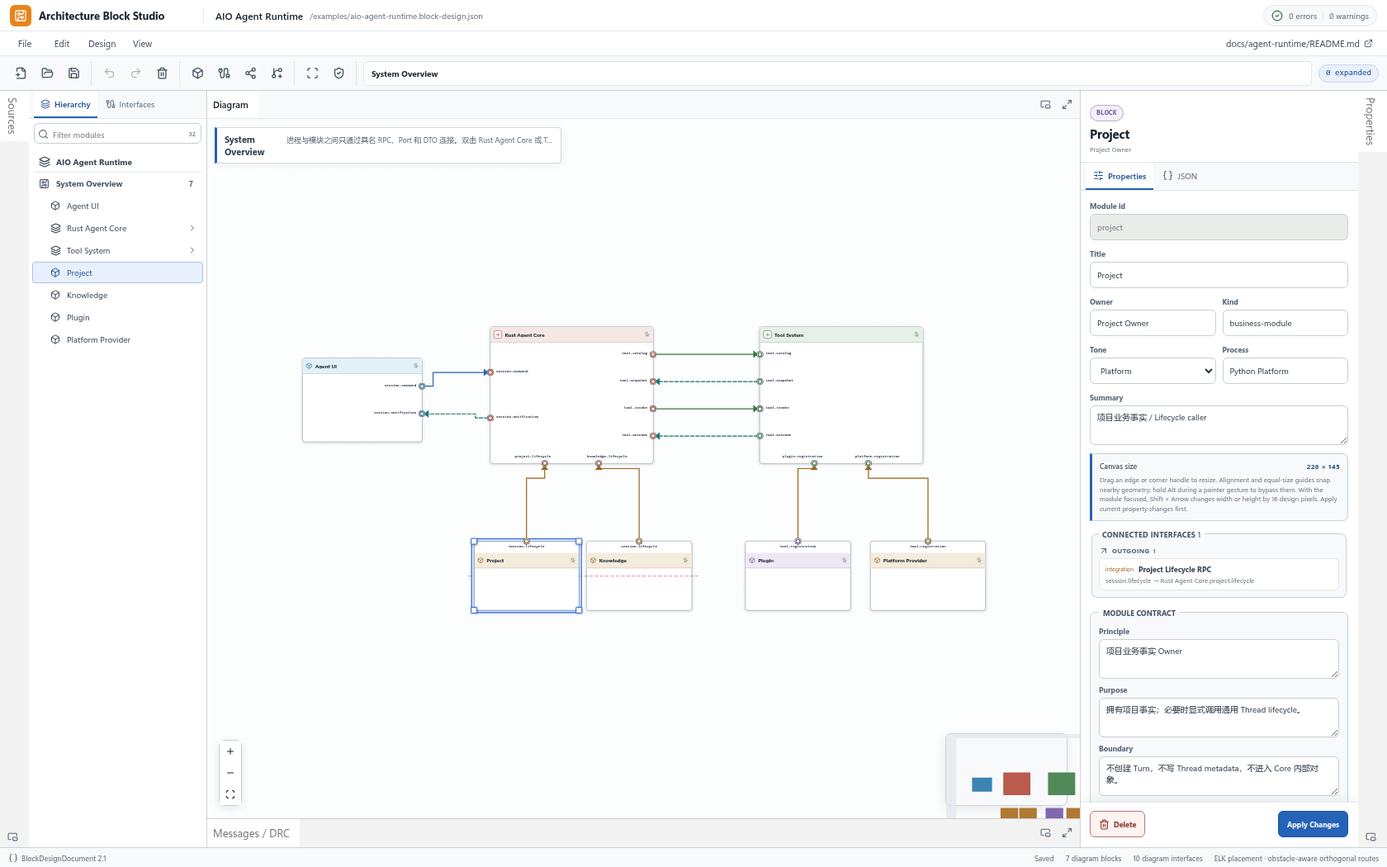
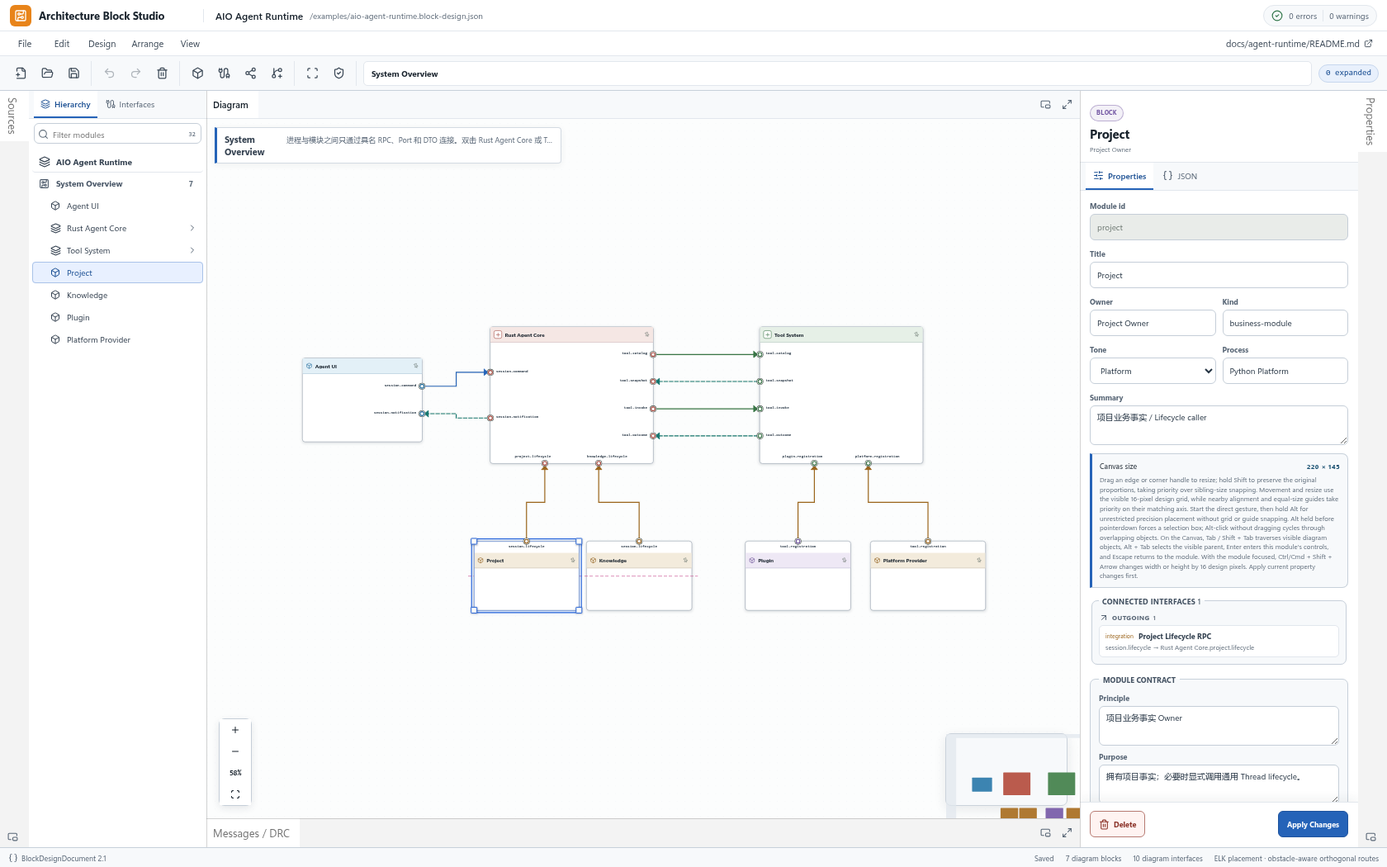
feat: unify grid and guide precision snapping

diff --git a/src/components/BlockDesignCanvas.tsx b/src/components/BlockDesignCanvas.tsx
@@ -46,6 +46,7 @@ import type {
 } from "../model";
 import {
   BLOCK_NODE_GEOMETRY,
+  DESIGN_GRID_SIZE,
   alignmentRectBounds,
   minimumNodeDimensions,
   snapMovingRect,
@@ -112,14 +113,13 @@ const nodeTypes = { block: BlockNodeComponent };
 const edgeTypes = { interface: InterfaceEdgeComponent };
 const FIT_PADDING = 0.28;
 const NO_SELECTED_IDS: readonly string[] = [];
-const SNAP_GRID: [number, number] = [16, 16];
 const MIN_ZOOM = 0.18;
 const MAX_ZOOM = 2.4;
 const NODE_KEYBOARD_DELTAS: Readonly<Record<string, { x: number; y: number; direction: string }>> = {
-  ArrowLeft: { x: -SNAP_GRID[0], y: 0, direction: "left" },
-  ArrowRight: { x: SNAP_GRID[0], y: 0, direction: "right" },
-  ArrowUp: { x: 0, y: -SNAP_GRID[1], direction: "up" },
-  ArrowDown: { x: 0, y: SNAP_GRID[1], direction: "down" },
+  ArrowLeft: { x: -DESIGN_GRID_SIZE.x, y: 0, direction: "left" },
+  ArrowRight: { x: DESIGN_GRID_SIZE.x, y: 0, direction: "right" },
+  ArrowUp: { x: 0, y: -DESIGN_GRID_SIZE.y, direction: "up" },
+  ArrowDown: { x: 0, y: DESIGN_GRID_SIZE.y, direction: "down" },
 };
 const CANVAS_OBJECT_CONTROL_SELECTOR = "button:not([disabled]), [tabindex='0']";
 const FIT_VIEW_OPTIONS = { padding: FIT_PADDING };
@@ -158,7 +158,7 @@ const toneColors: Record<string, string> = {
 };
 
 const CANVAS_BACKGROUND = (
-  <Background variant={BackgroundVariant.Dots} gap={16} size={1} color="var(--canvas-grid)" />
+  <Background variant={BackgroundVariant.Dots} gap={DESIGN_GRID_SIZE.x} size={1} color="var(--canvas-grid)" />
 );
 
 function CanvasViewportControls({
@@ -318,6 +318,7 @@ interface AlignmentGesture {
   originalLocalPosition: { x: number; y: number };
   candidates: AlignmentRect[];
   tolerance: number;
+  grid: { x: number; y: number; originX: number; originY: number };
   limits: ResizeLimits;
 }
 
@@ -656,6 +657,11 @@ const CanvasInner = memo(function CanvasInner({
       originalLocalPosition: { ...subject.position },
       candidates,
       tolerance: ALIGNMENT_TOLERANCE_PX / zoom,
+      grid: {
+        ...DESIGN_GRID_SIZE,
+        originX: subject.internals.positionAbsolute.x - subject.position.x,
+        originY: subject.internals.positionAbsolute.y - subject.position.y,
+      },
       limits: {
         minWidth: minimum.width,
         minHeight: minimum.height,
@@ -694,6 +700,7 @@ const CanvasInner = memo(function CanvasInner({
       gesture.candidates,
       gesture.tolerance,
       gesture.limits,
+      gesture.grid,
     );
     resizePreviewRef.current = {
       nodeId: node.id,
@@ -1740,14 +1747,14 @@ const CanvasInner = memo(function CanvasInner({
           minimum.width,
           Math.min(
             BLOCK_NODE_GEOMETRY.maximumWidth,
-            currentWidth + (event.key === "ArrowLeft" ? -SNAP_GRID[0] : event.key === "ArrowRight" ? SNAP_GRID[0] : 0),
+            currentWidth + (event.key === "ArrowLeft" ? -DESIGN_GRID_SIZE.x : event.key === "ArrowRight" ? DESIGN_GRID_SIZE.x : 0),
           ),
         ),
         height: Math.max(
           minimum.height,
           Math.min(
             BLOCK_NODE_GEOMETRY.maximumHeight,
-            currentHeight + (event.key === "ArrowUp" ? -SNAP_GRID[1] : event.key === "ArrowDown" ? SNAP_GRID[1] : 0),
+            currentHeight + (event.key === "ArrowUp" ? -DESIGN_GRID_SIZE.y : event.key === "ArrowDown" ? DESIGN_GRID_SIZE.y : 0),
           ),
         ),
       };
@@ -1929,7 +1936,7 @@ const CanvasInner = memo(function CanvasInner({
       x: gesture.original.x + node.position.x - gesture.originalLocalPosition.x,
       y: gesture.original.y + node.position.y - gesture.originalLocalPosition.y,
     };
-    const snapped = snapMovingRect(preview, gesture.candidates, gesture.tolerance);
+    const snapped = snapMovingRect(preview, gesture.candidates, gesture.tolerance, gesture.grid);
     setAlignmentGuides(snapped.guides);
     return {
       position: {
@@ -2135,8 +2142,6 @@ const CanvasInner = memo(function CanvasInner({
           connectionLineComponent={ConnectionGesturePreview}
           nodesConnectable
           edgesReconnectable
-          snapToGrid
-          snapGrid={SNAP_GRID}
           minZoom={MIN_ZOOM}
           maxZoom={MAX_ZOOM}
           autoPanOnConnect

diff --git a/src/layout/alignmentGuides.ts b/src/layout/alignmentGuides.ts
@@ -34,6 +34,15 @@ export interface AlignmentSnapResult {
   guides: AlignmentGuide[];
 }
 
+export interface AlignmentGrid {
+  x: number;
+  y: number;
+  originX?: number;
+  originY?: number;
+}
+
+export const DESIGN_GRID_SIZE = { x: 16, y: 16 } as const;
+
 export interface ResizeLimits {
   minWidth: number;
   minHeight: number;
@@ -136,13 +145,18 @@ export function snapMovingRect(
   subject: AlignmentRect,
   candidates: readonly AlignmentRect[],
   tolerance: number,
+  grid?: AlignmentGrid,
 ): AlignmentSnapResult {
   const xMatch = closestAxisMatch(subject, candidates, "x", tolerance);
   const yMatch = closestAxisMatch(subject, candidates, "y", tolerance);
   const rect = {
     ...subject,
-    x: subject.x + (xMatch?.delta ?? 0),
-    y: subject.y + (yMatch?.delta ?? 0),
+    x: xMatch
+      ? subject.x + xMatch.delta
+      : snapGridCoordinate(subject.x, grid?.x, grid?.originX),
+    y: yMatch
+      ? subject.y + yMatch.delta
+      : snapGridCoordinate(subject.y, grid?.y, grid?.originY),
   };
   return {
     rect,
@@ -151,6 +165,11 @@ export function snapMovingRect(
       ...(yMatch ? [lineGuide(rect, "y", yMatch)] : []),
     ],
   };
+}
+
+function snapGridCoordinate(value: number, step?: number, origin = 0): number {
+  if (!step || step <= 0) return value;
+  return origin + Math.round((value - origin) / step) * step;
 }
 
 function changed(left: number, right: number): boolean {
@@ -216,6 +235,7 @@ export function snapResizingRect(
   candidates: readonly AlignmentRect[],
   tolerance: number,
   limits: ResizeLimits,
+  grid?: AlignmentGrid,
 ): AlignmentSnapResult {
   const originalRight = original.x + original.width;
   const originalBottom = original.y + original.height;
@@ -279,6 +299,35 @@ export function snapResizingRect(
         rect = beforeSizeSnap;
       }
     }
+  }
+
+  const hasXSnap = guides.some((guide) =>
+    guide.kind === "line" ? guide.axis === "x" : guide.axis === "width");
+  const hasYSnap = guides.some((guide) =>
+    guide.kind === "line" ? guide.axis === "y" : guide.axis === "height");
+  if (!hasXSnap && grid?.x && (leftChanged || rightChanged)) {
+    const beforeGridSnap = rect;
+    const right = rect.x + rect.width;
+    if (leftChanged && !rightChanged) {
+      const x = snapGridCoordinate(rect.x, grid.x, grid.originX);
+      rect = { ...rect, x, width: right - x };
+    } else {
+      const snappedRight = snapGridCoordinate(right, grid.x, grid.originX);
+      rect = { ...rect, width: snappedRight - rect.x };
+    }
+    if (!withinLimits(rect, limits)) rect = beforeGridSnap;
+  }
+  if (!hasYSnap && grid?.y && (topChanged || bottomChanged)) {
+    const beforeGridSnap = rect;
+    const bottom = rect.y + rect.height;
+    if (topChanged && !bottomChanged) {
+      const y = snapGridCoordinate(rect.y, grid.y, grid.originY);
+      rect = { ...rect, y, height: bottom - y };
+    } else {
+      const snappedBottom = snapGridCoordinate(bottom, grid.y, grid.originY);
+      rect = { ...rect, height: snappedBottom - rect.y };
+    }
+    if (!withinLimits(rect, limits)) rect = beforeGridSnap;
   }
   return { rect, guides };
 }

diff --git a/tests/studio.spec.ts b/tests/studio.spec.ts
@@ -4109,6 +4109,7 @@ test("aligns a pointer-moved module and lets Alt bypass guides for one gesture",
     (candidate: { id: string }) => candidate.id === "project",
   );
   expect(savedNode.layout.position.x).toBeGreaterThan(370);
+  expect(savedNode.layout.position.x % 16).toBe(0);
   expect(savedNode.layout.position.y).toBe(650);
 
   await page.keyboard.press("ControlOrMeta+Z");
@@ -4126,7 +4127,9 @@ test("aligns a pointer-moved module and lets Alt bypass guides for one gesture",
   savedNode = saved.levels.find((level: { id: string }) => level.id === "system").nodes.find(
     (candidate: { id: string }) => candidate.id === "project",
   );
-  expect(savedNode.layout.position.y).not.toBe(650);
+  expect(savedNode.layout.position.y).toBe(650);
+  expect(savedNode.layout.position.x).toBeGreaterThan(370);
+  expect(savedNode.layout.position.x % 16).not.toBe(0);
 });
 
 test("snaps a selected group by its full boundary regardless of the grabbed member", async ({ page, browserName }) => {
@@ -5763,7 +5766,16 @@ test("matches a sibling size while resizing and lets Alt bypass size snapping", 
   await page.mouse.up();
   await page.keyboard.up("Alt");
   await waitForEditorIdle(page);
-  await expect(page.getByRole("region", { name: "Module geometry" }).locator("strong")).toHaveText("256 × 145");
+  await expect(page.getByRole("region", { name: "Module geometry" }).locator("strong")).toHaveText("253 × 145");
+
+  const precisionDownloadPromise = page.waitForEvent("download");
+  await page.keyboard.press("ControlOrMeta+S");
+  const precisionSavedPath = await (await precisionDownloadPromise).path();
+  const precisionSaved = JSON.parse(await readFile(precisionSavedPath!, "utf8"));
+  const precisionSavedNode = precisionSaved.levels
+    .find((level: { id: string }) => level.id === "system").nodes
+    .find((candidate: { id: string }) => candidate.id === "platform-provider");
+  expect(precisionSavedNode.layout).toMatchObject({ width: 253, height: 145 });
 });
 
 test("resizes a focused module only with the draw.io keyboard chord", async ({ page }) => {

diff --git a/src/components/Inspector.tsx b/src/components/Inspector.tsx
@@ -412,7 +412,7 @@ function NodeEditor({ document, level, node, onOperation, onDelete, onDraftChang
             ? `${node.layout.width} × ${node.layout.height}`
             : "Automatic"}</strong>
         </div>
-        <p>Drag an edge or corner handle to resize; hold Shift to preserve the original proportions, taking priority over sibling-size snapping. Alignment and equal-size guides snap nearby geometry; start the direct gesture, then hold Alt to bypass them. Alt held before pointerdown forces a selection box; Alt-click without dragging cycles through overlapping objects. On the Canvas, Tab / Shift + Tab traverses visible diagram objects, Alt + Tab selects the visible parent, Enter enters this module's controls, and Escape returns to the module. With the module focused, Ctrl/Cmd + Shift + Arrow changes width or height by 16 design pixels. Apply current property changes first.</p>
+        <p>Drag an edge or corner handle to resize; hold Shift to preserve the original proportions, taking priority over sibling-size snapping. Movement and resize use the visible 16-pixel design grid, while nearby alignment and equal-size guides take priority on their matching axis. Start the direct gesture, then hold Alt for unrestricted precision placement without grid or guide snapping. Alt held before pointerdown forces a selection box; Alt-click without dragging cycles through overlapping objects. On the Canvas, Tab / Shift + Tab traverses visible diagram objects, Alt + Tab selects the visible parent, Enter enters this module's controls, and Escape returns to the module. With the module focused, Ctrl/Cmd + Shift + Arrow changes width or height by 16 design pixels. Apply current property changes first.</p>
       </section>
       <ConnectedInterfaces document={document} level={level} node={node} onSelect={onSelect} />
       <ContractFields value={inspector} onChange={setInspector} />

diff --git a/tests/unit/alignmentGuides.test.ts b/tests/unit/alignmentGuides.test.ts
@@ -74,6 +74,20 @@ describe("alignment guides", () => {
     ]);
   });
 
+  test("uses alignment before the parent-relative grid on each movement axis", () => {
+    const result = snapMovingRect(
+      rect("subject", 191, 107),
+      [rect("target", 294, 300)],
+      5,
+      { x: 16, y: 16, originX: 6, originY: 10 },
+    );
+
+    expect(result.rect).toMatchObject({ x: 194, y: 106 });
+    expect(result.guides).toEqual([
+      expect.objectContaining({ kind: "line", axis: "x", coordinate: 294 }),
+    ]);
+  });
+
   test("leaves moving geometry unchanged outside the screen-derived tolerance", () => {
     const subject = rect("subject", 90, 40);
     expect(snapMovingRect(subject, [rect("target", 200, 200)], 5)).toEqual({
@@ -116,6 +130,20 @@ describe("alignment guides", () => {
     expect(result.guides).toEqual([
       expect.objectContaining({ kind: "size", axis: "width", targetId: "target" }),
     ]);
+  });
+
+  test("snaps unmatched active resize edges to the parent-relative grid", () => {
+    const result = snapResizingRect(
+      rect("subject", 6, 10, 100, 80),
+      rect("subject", 6, 10, 109, 87),
+      [],
+      4,
+      limits,
+      { x: 16, y: 16, originX: 6, originY: 10 },
+    );
+
+    expect(result.rect).toEqual(rect("subject", 6, 10, 112, 80));
+    expect(result.guides).toEqual([]);
   });
 
   test("keeps resize results inside the content and workspace limits", () => {

diff --git a/docs/ARCHITECTURE.md b/docs/ARCHITECTURE.md
@@ -35,7 +35,7 @@ Menu / Toolbar / Keyboard / Canvas / Inspector
 | `src/model` | 拥有文档结构、Schema 版本与迁移、语义设计规则和无状态图查询 | `BlockDesignDocument`、`BLOCK_DESIGN_SCHEMA_VERSION`、`blockDesignSchemaCompatibility`、`parseBlockDesignDocument`、`validateBlockDesignDocument`、`listModuleInterfaces`、`normalizeConnectionEndpoints` | 不负责 UI、历史或布局；版本与结构非法时在字段路径拒绝，语义问题输出 DRC，查询与连接规范化不持有状态 |
 | `src/editor` | 拥有原子文档变换、历史、dirty 判断与可移植设计片段的引用完整性 | `DesignOperation`、`DesignFragment`、`createDesignFragment`、`parseDesignFragment`、`applyDesignOperation`、`useDesignEditor`、具名工厂 | 不渲染、不路由、不持久化；片段必须自包含，失败不产生部分修改 |
 | `src/io` | 拥有外部 JSON 与已校验文档之间的转换 | `loadDesignFromObject/File/Url`、`serializeDesign`、`downloadDesign` | 不解释模块业务；加载失败保留已安装文档 |
-| `src/layout` | 从文档与展开状态派生纯复合节点、边和位置投影，定义布局真正消费的签名，并提供不持有交互状态的吸附与多选编排几何 | `layoutBlockDesign`、`layoutFrameSignature`、`layoutProjectionSignature`、`snapMovingRect`、`snapResizingRect`、`alignSelection`、`distributeSelection`、`LayoutResult`、`PlacementMode` | 不依赖 Studio 或 React 交互回调，不修改源文档；没有合法吸附候选时原样返回预览几何，非法编排输入或布局失败上抛给 Studio |
+| `src/layout` | 从文档与展开状态派生纯复合节点、边和位置投影，定义布局真正消费的签名，并提供不持有交互状态的网格、辅助线与多选编排几何 | `layoutBlockDesign`、`layoutFrameSignature`、`layoutProjectionSignature`、`DESIGN_GRID_SIZE`、`snapMovingRect`、`snapResizingRect`、`alignSelection`、`distributeSelection`、`LayoutResult`、`PlacementMode` | 不依赖 Studio 或 React 交互回调，不修改源文档；没有合法辅助线时只应用显式网格策略，没有网格时原样返回预览几何，非法编排输入或布局失败上抛给 Studio |
 | `src/routing` | 从绝对布局几何和锁定 waypoint 构造 `RoutingScene`，统一拥有版本化正交多连接策略、规模资源预算、确定性求解、证明等级与独立验证；同一布局投影还向 pointer preview 提供只读障碍、规范端口和层级域，另提供手工路线编辑几何与线桥 | `createRoutingLayoutProjectionFromLayout`、`createRoutingSceneFromLayout`、`solveConnectionPreview`、`routingPolicyForScene`、`solveRoutingScene`、`verifyRoutingResult`、`planRouteJumps`、`RoutingScene`、`RoutingPolicy`、`RoutingResult` | 设计坐标是路由事实；不移动模块、不改文档、不持有 gesture；preview 只解一条可丢弃 leg，不参与多线 lane 协调；规模只收紧同一策略的有界资源，不改变几何与失败语义。失败返回明确无解，不调用第二套自动 fallback。完整合同见 [`ROUTING.md`](ROUTING.md) |
 | `src/components` | 将纯布局投影组合为可交互 Canvas，拥有选中几何的 viewport framing、具名缩放请求投影与直接手势的持续边缘平移，并展示用户视图、发出用户意图 | `CanvasBlockNodeData`、`CanvasInterfaceEdgeData`、`CanvasViewportActionRequest`、`ViewportAutoPanController`、`canvasGeometryBounds`、Canvas、Node、Edge、Tree、Inspector、Dialogs、Dock、Messages | 交互回调只存在于 Canvas 投影；viewport 只消费节点矩形、线路点集、指针压力和可丢弃动作请求，不直接深改文档，自动平移不得提交设计操作，局部表单草稿不得伪装成已提交事实 |
 | `src/studio` | 组合公开能力，拥有工作区选择协议、临时设计剪贴板与无碰撞粘贴位置投影 | `BlockDesignStudio`、`BlockDesignStudioProps`、`SelectionRef`、`selectAllInLevel`、`findDesignFragmentPlacement` 及纯选择查询 | 不重新定义 Schema、片段引用、布局或编辑规则；系统剪贴板失败时同源退化，组合失败应可见、可恢复 |
@@ -60,9 +60,16 @@ Menu / Toolbar / Keyboard / Canvas / Inspector
 
 端口连接点几何与标签排版同样正交。`layout/nodeGeometry` 是节点安全尺寸、标签估算宽度和水平 label rail 位置的唯一计算 Owner；`BlockNode` 从同一组已排序 Port 分别投影稳定 Handle 和独立标签按钮，不能为了排文字移动 source / target。left / right 标签沿各自侧边，top / bottom 标签在 Header / Owner 之外的内部轨道分配空间；常态只显示端口名，dataType 只在可读缩放下通过 hover / focus 渐进显示，完整事实仍可由 Properties 查看。已有 authored width / height 满足标签合同时必须原样保留；只有外部 JSON 或后续 resize 小于内容安全下限时，布局投影才钳制到可读尺寸，不能把展示修正反写 JSON。
 
-模块尺寸编辑复用同一几何 Owner。`minimumNodeDimensions` 从四侧端口和内容区计算可读下限，Canvas 只把这个纯结果投影为四边 / 四角 resize 限制；最大值与 16 设计像素键盘步长同样来自统一几何常量。Shift pointer resize 由纯 `preserveNodeAspectRatio` 以 gesture 起始矩形、抓手方向和同一尺寸上下限求解，固定对侧角或对侧边中心；比例不进入文档，并优先于兄弟尺寸吸附。React Flow 只拥有可丢弃预览，松手后只发出一次位置加尺寸意图；Editor 的 `node/resize` 才以一个原子操作写入 `node.layout.position / width / height / pinned`。左边或上边缩放会同时改变锚点和尺寸，因此不能只写 width / height，否则视觉边界与持久几何会漂移。展开的 hierarchy 容器尺寸由子图边界派生，不提供 authored resize 把手。
+模块尺寸编辑复用同一几何 Owner。`minimumNodeDimensions` 从四侧端口和内容区计算可读下限，Canvas 只把这个纯结果投影为四边 / 四角 resize 限制；最大值来自节点几何合同，pointer 网格、键盘移动 / resize 步长和背景点阵共同消费 `DESIGN_GRID_SIZE`。Shift pointer resize 由纯 `preserveNodeAspectRatio` 以 gesture 起始矩形、抓手方向和同一尺寸上下限求解，固定对侧角或对侧边中心；比例不进入文档，并优先于兄弟尺寸吸附。React Flow 只拥有可丢弃预览，松手后只发出一次位置加尺寸意图；Editor 的 `node/resize` 才以一个原子操作写入 `node.layout.position / width / height / pinned`。左边或上边缩放会同时改变锚点和尺寸，因此不能只写 width / height，否则视觉边界与持久几何会漂移。展开的 hierarchy 容器尺寸由子图边界派生，不提供 authored resize 把手。
 
-对齐辅助线沿用同一几何链，但不拥有设计事实。Canvas 在 move / resize 开始时只收集同一父级、当前视口附近的模块矩形，并把 6 CSS px 容差换算为设计坐标；多选移动先由 `alignmentRectBounds` 从全部成员的 absolute rect 冻结一个组包围框，pointer 位移只平移这个 subject，`snapMovingRect` 返回的同一 correction 再等量作用到每个成员。因此吸附结果不依赖用户抓住大卡片还是小卡片，组内相对位置也不会漂移。跨父级混选没有共同候选坐标空间时明确不吸附，不用当前抓取项猜一个目标。`layout/alignmentGuides` 纯函数从 subject 与候选派生边缘、中心及同宽 / 同高结果，`AlignmentGuideLayer` 只渲染当前 gesture 的临时线和尺寸括号。松手后仍只提交既有 `node/move`、`nodes/move`、`fragment/insert` 或 `node/resize`；先以 pointerdown 建立直接 move / resize，再按住 Alt 时，当前 gesture 原样使用用户预览且不显示 guide。Alt 在 pointerdown 前成立则属于选择协议并强制起框。候选不存在、吸附超出尺寸上下限或 Editor 拒绝提交时，不建立补偿状态，Canvas 回到文档投影。
+网格与对齐辅助线沿用同一几何链，但都不拥有设计事实。Canvas 在 move / resize 开始时冻结父级坐标原点，并只收集同一父级、当前视口附近的模块矩形，把 6 CSS px 容差换算为设计坐标；多选移动先由 `alignmentRectBounds` 从全部成员的 absolute rect 冻结一个组包围框，pointer 位移只平移这个 subject。`layout/alignmentGuides` 在每个轴上先选择最近的边缘 / 中心或同宽 / 同高候选，未命中的轴才按父级相对 `DESIGN_GRID_SIZE` 取整；同一 correction 再等量作用到每个成员，因此吸附结果不依赖抓住大卡片还是小卡片，组内相对位置也不会漂移。React Flow 的全局 `snapToGrid` 已关闭，不能在纯策略之前偷偷生成第二份几何。`AlignmentGuideLayer` 只渲染当前 gesture 的临时线和尺寸括号。松手后仍只提交既有 `node/move`、`nodes/move`、`fragment/insert` 或 `node/resize`；先以 pointerdown 建立直接 move / resize，再按住 Alt 时，同时跳过网格和辅助线，原样使用用户预览。Alt 在 pointerdown 前成立则属于选择协议并强制起框。跨父级混选、吸附超出尺寸上下限或 Editor 拒绝提交时，不猜坐标、不建立补偿状态，Canvas 回到文档投影。
+
+```text
+pointer raw geometry ─► layout snap policy ─► disposable Canvas preview ─► one DesignOperation
+                              │                          │                         │
+                  grid + nearby modules          guides / transform       BlockDesignDocument
+                  (Alt bypasses both)                 (not facts)          (only geometry fact)
+```
 
 多选对齐与分布复用 authored 几何，但与临时辅助线是独立能力。`layout/selectionArrangement` 只接收已解析的模块矩形：六种对齐以整个选择包围框为基准，水平 / 垂直分布按中心点等距并固定两端；项目没有隐式“主选择”，因此不会让点击顺序成为第二几何规则。`StudioCommands` 负责确认至少 2 个对齐对象或 3 个分布对象、全部是同一 Level 中具有唯一可编辑投影的 authored 模块，并为接口混选、跨层选择、展开 hierarchy 或未完成布局给出同源禁用原因。Arrange 菜单与 Command Palette 只投影这些命令；执行结果统一生成一次 `nodes/move`，Editor 原子写入各模块的 `node.layout.position / pinned`，随后布局与路由从文档重新派生。任一前提或提交失败时，原文档、历史和视口都不变。
 

diff --git a/docs/QUALITY.md b/docs/QUALITY.md
@@ -128,6 +128,8 @@ Iteration 88 对照 draw.io `scrollPointToVisible` 与 `mxPanningManager` 的持
 
 Iteration 89 对照 draw.io `mxGraphHandler` 在 gesture 起点冻结 selection bounds、由 `mxGuide` 对整个 bounds 求吸附的职责边界，修正多选拖动仍把被抓节点当作 subject 的漂移。`alignmentRectBounds` 只从全部成员 absolute rect 派生一个不可变包围框，现有 `snapMovingRect` 对它求唯一 correction，Canvas 再把 correction 等量投影给每个 dragged node；同一选择从 Compact Author 或 Expanded Coordinator 起拖都精确落到 `(612,64) / (868,288)`。Alt 手势得到未吸附 `(608,64) / (864,288)`，Ctrl clone 复用同一组 correction 并一次 Undo 恢复；跨父级选择因没有共同候选空间而不猜吸附。最终 144 / 144 unit（19 files / 1.47 秒）、1899-module build（7.07 秒）、Chromium 71 / 71 + Firefox 70 / 70 = 141 / 141（4.0 分钟）通过；完整回归再次覆盖五层 20 / 190、Hub 100 / 4950、200 / 400 和 1000 / 2000。首张截图因内部接口出现无意义大绕行而未放行；调整 fixture 的端口法向和净空后重拍的 `group-boundary-alignment.png` 已人工复核，两条线路均只有必要折点，洋红 guide 不穿文字、不挡端口或 Inspector。
 
+Iteration 90 完成第十次十轮产品、图形操作与架构复评。对照 draw.io 当前 `mxGraph.isGridEnabledEvent`、`mxGraphHandler` 和 `mxGuide` 后发现一个可复现的协议裂缝：React Flow 全局 `snapToGrid` 先改写拖动 / resize 几何，自有 Alt 只关闭后置辅助线，因此界面虽然声称自由摆放，保存结果仍被隐藏 16px 网格限制。`DESIGN_GRID_SIZE` 现成为背景点阵、pointer move / resize 与键盘几何步长的唯一事实；`snapMovingRect` / `snapResizingRect` 在每个轴上让邻近对齐优先、未命中才按父级相对网格取整，Canvas 关闭第三方全局吸附。直接手势开始后按 Alt 同时跳过网格和辅助线，预览与松手提交复用同一纯结果；普通移动保存网格坐标，Alt 移动保存明确非网格坐标，Alt resize 从旧隐藏结果 `256 × 145` 变为原始指针结果 `253 × 145`。最终 146 / 146 unit（19 files / 1.53 秒）、1899-module build（6.71 秒）、Chromium 71 / 71 + Firefox 70 / 70 = 141 / 141（6.2 分钟）通过；五层逐条 / 逐对审计 20 / 190，非均匀 100 连接 Hub 审计 100 / 4950，200 / 400 与 1000 / 2000 均完成真实交互。压力档首次可交互 4174 ms、十次编辑 3423 ms、guide drag 3328 ms、最终测量内存 82,033,471 bytes；这些是本机观测，不是正式预算。重新拍摄的 `alignment-guides.png`、`group-boundary-alignment.png` 与 `same-size-guides.png` 已逐张人工复核，参考线只占用空白或卡片边界，线路无回钩、穿卡、共线搅绕、线中标签或 Inspector 遮挡。复评确认编辑链仍是 `BlockDesignDocument → Editor → layout / routing → Canvas` 单向投影，但移动时实时等距参考线尚未具备，整体仍未达到 draw.io 同等级别。
+
 ## 每次迭代的最小验证门槛
 
 每个完成的迭代必须留下与风险相称的证据：
@@ -174,6 +176,7 @@ Iteration 89 对照 draw.io `mxGraphHandler` 在 gesture 起点冻结 selection 
 - 选中线路必须直接暴露可区分的虚拟线段点、真实折点和端点抓手；视觉图形小于命中区，端点抓手不能与 Port 叠成大双圆环，线路仍不得出现中部标签。
 - 线段 / 折点拖动、键盘微调、折点删除、Reset Auto 和端点重连都必须经具名原子操作进入同一 Undo / Redo 与保存链；预览、焦点恢复和非法拖动不得成为第二份路线或端点事实。
 - 选中且允许 authored placement 的模块必须提供四边 / 四角 resize；控制点视觉小于命中区，不能遮挡 Port。内容安全下限由统一几何 Owner 计算，pointer 与 Ctrl/Cmd + Shift + Arrow 都只通过 `node/resize` 提交位置和尺寸，拒绝时恢复原文档投影；Shift + Arrow 单独按下不得改动设计或第三方画布状态。
+- 模块 move / resize 的背景网格、键盘步长和 pointer 吸附必须消费同一 `DESIGN_GRID_SIZE`；邻近模块参考线在对应轴优先，未命中轴才落网格。直接手势开始后按 Alt 必须同时关闭网格与参考线，预览和最终 JSON 不得被第三方隐藏吸附再次改写。
 - 多选必须由显式工作区协议拥有，不能把 React Flow 内部 selected 数组或框选矩形当成文档事实；成组移动只提交一次 `nodes/move` 并由一次 Undo 恢复。多选期间隐藏单对象编辑抓手，未定义的批量删除必须给出禁用原因。
 - 多选对齐至少需要 2 个、分布至少需要 3 个同一 Level 的 authored 模块，且每个模块只能有一个可编辑投影；接口混选、跨层、展开 hierarchy、布局未就绪或未应用草稿必须给出同源禁用原因。目标位置只能由纯几何函数计算，一条命令只提交一次 `nodes/move`；selection 与 viewport 保持稳定，布局和路由从新文档几何重算。
 - 空白画布提供清晰的第一步，不迫使新用户猜工具栏图标。

diff --git a/README.md b/README.md
@@ -37,7 +37,7 @@ Architecture Block Studio 将这些问题变成可阅读、可编辑、可校验
 - 缩放到系统总览时只保留模块标题、端口名和线路，放大后自动恢复 Owner、摘要、类型等完整细节。
 - 选中模块即可从四边或四角调整尺寸；端口和线路实时跟随，结果进入同一份 JSON、Undo / Redo 与保存链。
 - 拖动尺寸抓手时按住 **Shift** 保持模块原始宽高比例；比例约束优先于兄弟尺寸吸附，松手仍只产生一次可撤销几何编辑。
-- 移动或调整模块时自动显示边缘、中心与同宽 / 同高辅助线；先从模块或尺寸抓手开始直接操作，再按住 **Alt** 可临时关闭当前手势的吸附，画布不会擅自跳回全图视角。Alt 若在 pointerdown 前已经按住，则明确表示强制框选，两种能力不会抢占。
+- 移动或调整模块时默认落在可见的 16px 设计网格，接近同级模块时由边缘、中心与同宽 / 同高辅助线优先吸附；先从模块或尺寸抓手开始直接操作，再按住 **Alt** 可同时关闭网格与辅助线，进行不受隐藏栅格限制的精确摆放。Alt 若在 pointerdown 前已经按住，则明确表示强制框选，两种能力不会抢占。
 - 使用普通点击、Shift / Ctrl / Cmd 与左键框选建立多选；普通框选只选择完全包围的对象，按住 **Alt** 可从模块或抓手上直接起框并选择所有真实相交的模块与线段，**Alt + Shift** 可成片移出已有选择。成组移动、六向对齐与水平 / 垂直等距分布都只产生一次可撤销操作。
 - 使用 **Ctrl/⌘ A** 一次选择当前 Level 的全部模块和接口，使用 **Ctrl/⌘ Shift A** 清空选择；输入框继续保留浏览器原生全选，不会误选画布对象。
 - 画布获得焦点后，使用 **Tab / Shift + Tab** 按稳定顺序遍历可见模块与接口，使用 **Alt + Tab** 返回可见父模块；按 **Enter** 进入所选模块的端口或所选线路的抓手，按 **Esc** 返回对象。侧栏表单继续使用原生 Tab，不会被画布抢走焦点。
@@ -61,9 +61,9 @@ Architecture Block Studio 将这些问题变成可阅读、可编辑、可校验
 
 ![Shift 拖动保持模块原始宽高比例](docs/screenshots/aspect-ratio-resize.png)
 
-拖动模块接近同级模块的边缘或中心时，画布会用克制的洋红参考线提示吸附；调整尺寸接近同宽 / 同高时显示成对尺寸括号。辅助线只在当前操作中出现，不进入 JSON，也不会成为需要维护的第二份布局状态。
+拖动模块接近同级模块的边缘或中心时，画布会用克制的洋红参考线提示吸附；未命中参考线的轴才落到 16px 设计网格。调整尺寸同样复用这条规则，接近同宽 / 同高时显示成对尺寸括号。按住 Alt 后直接使用原始指针几何，辅助线、网格结果和预览都只存在于当前操作，不进入 JSON，也不会成为需要维护的第二份布局状态。
 
-多选拖动使用整个选择组的包围框，而不是临时把鼠标按下的那张卡片当成几何主体。无论从大模块还是小模块起拖，同一目标都会给整组施加同一修正，组内相对位置、内部接口和外部接口保持一致；Alt 可在当前手势中临时绕过吸附。
+多选拖动使用整个选择组的包围框，而不是临时把鼠标按下的那张卡片当成几何主体。无论从大模块还是小模块起拖，同一目标都会给整组施加同一修正，组内相对位置、内部接口和外部接口保持一致；普通拖动以父级坐标系中的组边界对齐网格，Alt 则在当前手势中同时绕过网格与参考线。
 
 ![模块移动对齐辅助线](docs/screenshots/alignment-guides.png)
 
